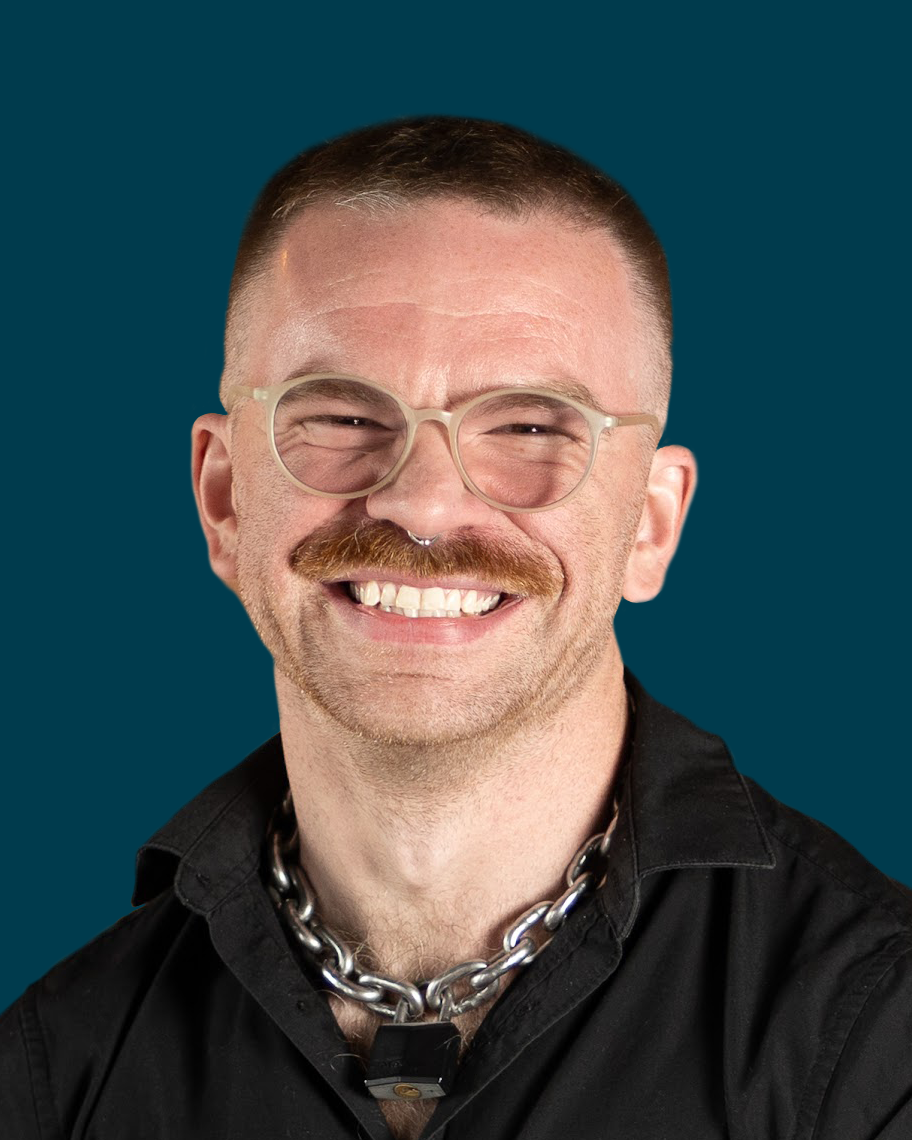
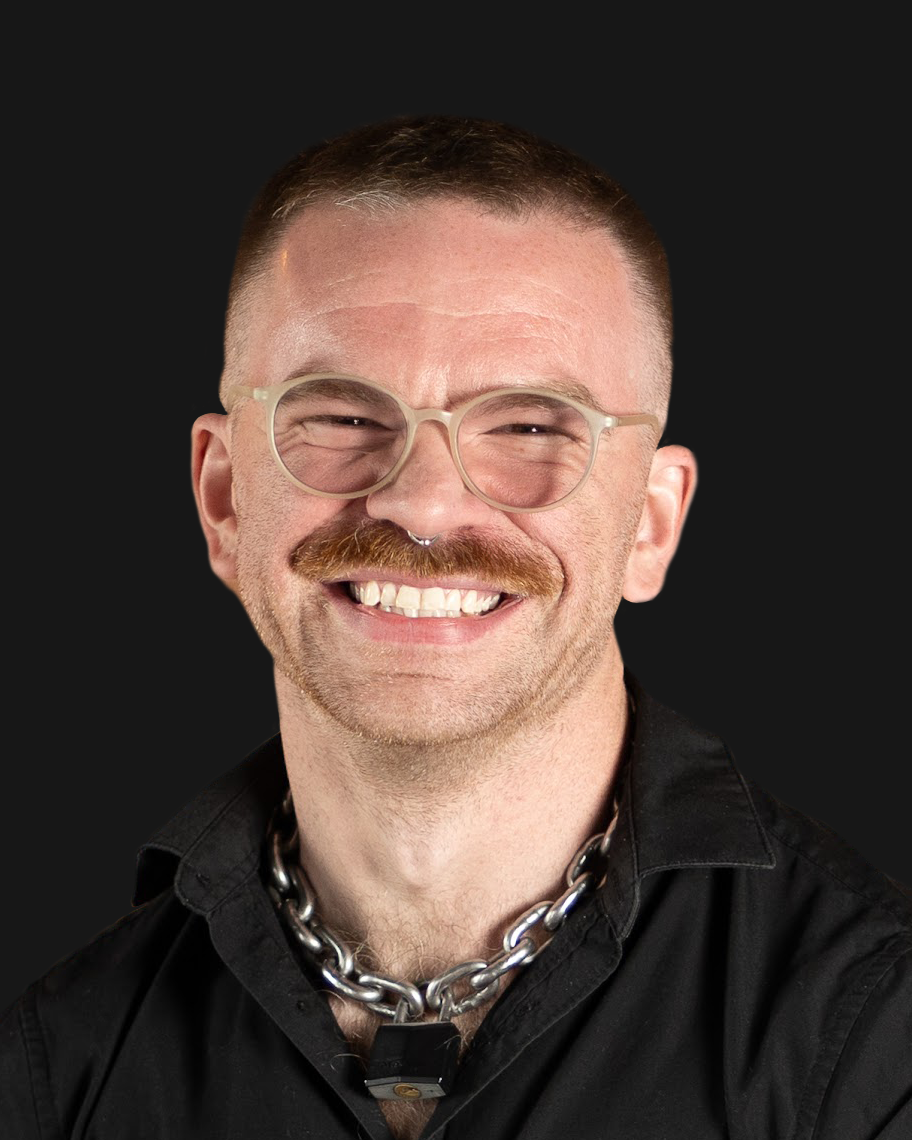
Think twice. Code once.

diff --git a/app/globals.css b/app/globals.css
@@ -6,37 +6,37 @@
 @custom-variant dark (&:is(.dark *));
 
 :root {
-  --background: #00141a;
-  --foreground: #0081a7;
-  --card: #003b4d;
-  --card-foreground: #1d293d;
-  --popover: #ffffff;
-  --popover-foreground: #1d293d;
-  --primary: #fed9b7;
-  --primary-foreground: #7e3d02;
-  --secondary: #74130b;
-  --secondary-foreground: #f07167;
-  --muted: #007980;
-  --muted-foreground: #00afb9;
-  --accent: #797507;
-  --accent-foreground: #fdfcdc;
-  --destructive: #f14444;
-  --border: #d0d4db;
-  --input: #d0d4db;
-  --ring: #6468f0;
-  --chart-1: #6468f0;
-  --chart-2: #4f46e5;
-  --chart-3: #443bc9;
-  --chart-4: #3730a5;
-  --chart-5: #312d84;
-  --sidebar: #f5f5f5;
-  --sidebar-foreground: #1d293d;
-  --sidebar-primary: #6468f0;
-  --sidebar-primary-foreground: #ffffff;
-  --sidebar-accent: #e1e7fd;
-  --sidebar-accent-foreground: #364050;
-  --sidebar-border: #d0d4db;
-  --sidebar-ring: #6468f0;
+  --background: #0a0a0a;
+  --foreground: #fafafa;
+  --card: #171717;
+  --card-foreground: #fafafa;
+  --popover: #171717;
+  --popover-foreground: #fafafa;
+  --primary: #e5e5e5;
+  --primary-foreground: #171717;
+  --secondary: #262626;
+  --secondary-foreground: #fafafa;
+  --muted: #262626;
+  --muted-foreground: #a1a1a1;
+  --accent: #262626;
+  --accent-foreground: #fafafa;
+  --destructive: #ff6467;
+  --border: #ffffff1a;
+  --input: #ffffff26;
+  --ring: #737373;
+  --chart-1: #1447e6;
+  --chart-2: #00bc7d;
+  --chart-3: #fe9a00;
+  --chart-4: #ad46ff;
+  --chart-5: #ff2056;
+  --sidebar: #171717;
+  --sidebar-foreground: #fafafa;
+  --sidebar-primary: #1447e6;
+  --sidebar-primary-foreground: #fafafa;
+  --sidebar-accent: #262626;
+  --sidebar-accent-foreground: #fafafa;
+  --sidebar-border: #ffffff1a;
+  --sidebar-ring: #737373;
 
   --radius: 0.5rem;
 
@@ -53,49 +53,6 @@
   --shadow-xl:
     0px 4px 8px -1px rgb(0 0 0 / 0.1), 0px 8px 10px -2px rgb(0 0 0 / 0.1);
   --shadow-2xl: 0px 4px 8px -1px rgb(0 0 0 / 0.25);
-}
-
-.dark {
-  --background: #0f182b;
-  --foreground: #e3e8ef;
-  --card: #1d293d;
-  --card-foreground: #e3e8ef;
-  --popover: #1d293d;
-  --popover-foreground: #e3e8ef;
-  --primary: #818cf9;
-  --primary-foreground: #0f182b;
-  --secondary: #2f3848;
-  --secondary-foreground: #d0d4db;
-  --muted: #1d293d;
-  --muted-foreground: #9ba2ae;
-  --accent: #364050;
-  --accent-foreground: #d0d4db;
-  --destructive: #f14444;
-  --border: #4b5666;
-  --input: #4b5666;
-  --ring: #818cf9;
-  --chart-1: #818cf9;
-  --chart-2: #6468f0;
-  --chart-3: #4f46e5;
-  --chart-4: #443bc9;
-  --chart-5: #3730a5;
-  --sidebar: #1d293d;
-  --sidebar-foreground: #e3e8ef;
-  --sidebar-primary: #818cf9;
-  --sidebar-primary-foreground: #0f182b;
-  --sidebar-accent: #364050;
-  --sidebar-accent-foreground: #d0d4db;
-  --sidebar-border: #4b5666;
-  --sidebar-ring: #818cf9;
-
-  --shadow-2xs: 0 1px 3px 0px rgb(0 0 0 / 0.05);
-  --shadow-xs: 0 1px 3px 0px rgb(0 0 0 / 0.05);
-  --shadow-sm: 0 1px 3px 0px rgb(0 0 0 / 0.1), 0 1px 2px -1px rgb(0 0 0 / 0.1);
-  --shadow: 0 1px 3px 0px rgb(0 0 0 / 0.1), 0 1px 2px -1px rgb(0 0 0 / 0.1);
-  --shadow-md: 0 1px 3px 0px rgb(0 0 0 / 0.1), 0 2px 4px -1px rgb(0 0 0 / 0.1);
-  --shadow-lg: 0 1px 3px 0px rgb(0 0 0 / 0.1), 0 4px 6px -1px rgb(0 0 0 / 0.1);
-  --shadow-xl: 0 1px 3px 0px rgb(0 0 0 / 0.1), 0 8px 10px -1px rgb(0 0 0 / 0.1);
-  --shadow-2xl: 0 1px 3px 0px rgb(0 0 0 / 0.25);
 }
 
 @theme inline {
@@ -149,12 +106,8 @@
   --shadow-xl: var(--shadow-xl);
   --shadow-2xl: var(--shadow-2xl);
 
-  --animate-intro-text:
-    blur-in 1s ease-in-out, animate-text 5s ease-in-out infinite;
-
-  --animate-text: animate-text 5s ease-in-out infinite;
-
-  @keyframes blur-in {
+  --animate-blur-in-fade-in: blur-in-fade-in 1s ease-in-out forwards;
+  @keyframes blur-in-fade-in {
     from {
       opacity: 0;
       filter: blur(10px);
@@ -165,6 +118,7 @@
     }
   }
 
+  --animate-text: animate-text 5s ease-in-out infinite;
   @keyframes animate-text {
     0%,
     100% {

diff --git a/components/CTA.tsx b/components/CTA.tsx
@@ -8,44 +8,42 @@ export default function CTA() {
   return (
     <div className={"h-full p-4"} id={"contact"}>
       <div
-        className={"flex flex-col justify-center h-full bg-muted rounded-2xl"}
+        className={"flex flex-col justify-center h-full bg-primary rounded-2xl"}
       >
         <div className={"max-w-[1200] mx-auto py-16 sm:py-32 px-4"}>
           <div>
-            <div className={"text-primary text-6xl leading-[1.2] mb-4"}>
+            <div className={"text-background text-6xl leading-[1.2] mb-4"}>
               Tell me about your Idea__
             </div>
-            <p className={"text-muted-foreground sm:text-xl"}>
+            <p className={"text-secondary sm:text-xl"}>
               Reach out to share what you&apos;re building, and I&apos;ll help
               you simplify the process and move from concept to launch with
               confidence.
             </p>
             <div className={"flex flex-col sm:flex-row gap-4 sm:gap-8 py-4"}>
               <Link href={bookingLink} target={"_blank"}>
-                <Button size={"lg"}>Get Started Now!</Button>
+                <Button variant={"secondary"} size={"lg"}>
+                  Get Started Now!
+                </Button>
               </Link>
-              <div className={"flex items-center sm:gap-1"}>
-                <p className={"font-bold text-muted-foreground sm:text-2xl"}>
-                  topher
-                </p>
-                <p className={"font-bold text-primary sm:text-3xl "}>@</p>
-                <p className={"font-bold text-muted-foreground sm:text-2xl"}>
-                  bessaapps.com
-                </p>
+              <div className={"flex items-center text-secondary sm:gap-1"}>
+                <p className={"font-bold sm:text-2xl"}>topher</p>
+                <p className={"font-bold sm:text-3xl "}>@</p>
+                <p className={"font-bold sm:text-2xl"}>bessaapps.com</p>
               </div>
             </div>
             <div className={"flex justify-end gap-4 mb-4"}>
               <Link href={"https://x.com/bessaapps"}>
-                <BsTwitterX className={"text-2xl text-muted-foreground"} />
+                <BsTwitterX className={"text-2xl text-muted"} />
               </Link>
               <Link href={"https://linkedin.com/company/bessaapps"}>
-                <BsLinkedin className={"text-2xl text-muted-foreground"} />
+                <BsLinkedin className={"text-2xl text-muted"} />
               </Link>
               <Link href={"https://github.com/bessaapps"}>
-                <BsGithub className={"text-2xl text-muted-foreground"} />
+                <BsGithub className={"text-2xl text-muted"} />
               </Link>
             </div>
-            <p className={"text-right text-muted-foreground"}>
+            <p className={"text-right text-muted"}>
               &copy; Copyright{" "}
               <Link href={"/"} title={formatTitle("")}>
                 Bessa Community Apps, LLC

diff --git a/app/page.tsx b/app/page.tsx
@@ -34,6 +34,10 @@ const Highlights = ({ list }: { list: string[] }) => {
 };
 
 export default async function Home() {
+  const heading = "Your app idea is great. Now what?";
+  const subheading =
+    "Stop dreaming and start launching. Turn your bold concepts into reality with accessible mobile app development services for ideas that deserve momentum.";
+
   const services = await axios
     .get("https://cms.bessaapps.com/wp-json/wp/v2/posts?categories=2")
     .then((response) => response.data)
@@ -108,22 +112,42 @@ export default async function Home() {
           <div className={"flex flex-col gap-4 max-w-full"}>
             <h1
               className={
-                "animate-intro-text text-5xl sm:text-7xl text-transparent bg-clip-text bg-gradient-to-tr from-muted-foreground via-primary to-foreground font-bold leading-[1.1] sm:max-w-[75%]"
+                "text-primary text-5xl sm:text-7xl font-bold leading-[1.1] sm:max-w-[75%]"
               }
             >
-              Your app idea is great. Now what?
+              {heading.split(" ").map((word: string, index: number) => (
+                <span
+                  key={index}
+                  className={`opacity-0 animate-blur-in-fade-in`}
+                  style={{ animationDelay: `${index * 100}ms` }}
+                >
+                  {word}{" "}
+                </span>
+              ))}
             </h1>
-            <p
-              className={
-                "animate-intro-text delay-100 text-2xl sm:max-w-[66%] mb-8"
-              }
-            >
-              Stop dreaming and start launching. Turn your bold concepts into
-              reality with accessible mobile app development services for ideas
-              that deserve momentum.
+            <p className={"text-2xl sm:max-w-[66%] mb-8"}>
+              {subheading.split(" ").map((word: string, index: number) => (
+                <span
+                  key={index}
+                  className={`opacity-0 animate-blur-in-fade-in`}
+                  style={{
+                    animationDelay: `${heading.split(" ").length * 100 + index * 50}ms`
+                  }}
+                >
+                  {word}{" "}
+                </span>
+              ))}
             </p>
             <Link href={bookingLink} target={"_blank"}>
-              <Button size={"lg"} className={"cursor-pointer hover:scale-110"}>
+              <Button
+                size={"lg"}
+                className={
+                  "opacity-0 animate-blur-in-fade-in cursor-pointer hover:scale-110"
+                }
+                style={{
+                  animationDelay: `${heading.split(" ").length * 100 + subheading.split(" ").length * 50 + 500}ms`
+                }}
+              >
                 Start my Project!
               </Button>
             </Link>
